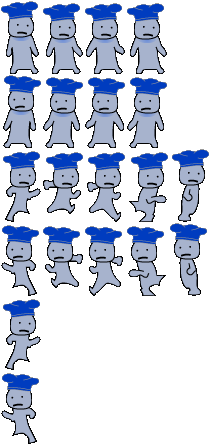
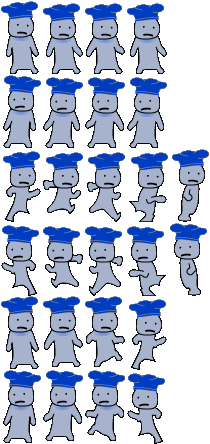
added more jump frames

Changed region(s): [[0.0, 0.6441, 0.8, 1.0]]

diff --git a/src/engine/display/AnimatedSprite.ts b/src/engine/display/AnimatedSprite.ts
@@ -100,7 +100,7 @@ export abstract class AnimatedSpriteBase extends Sprite {
             this._isReversed = !this._isReversed;
             break;
           case 'stayInState':
-            this._currentState = this.getCurrentConfig().endBehavior.arg;
+            this._currentState = this.getCurrentConfig().numStates-1;
             this._isStuck = true;
           default:
             console.log("unrecognized animation end behavior: "

diff --git a/src/cakewalk/MainGame.ts b/src/cakewalk/MainGame.ts
@@ -28,7 +28,7 @@ import { SwapAnimator } from './SwapAnimator';
 
 export class MainGame extends Game {
 
-  public static get IsDebug() : boolean { return true; }
+  public static get IsDebug() : boolean { return false; }
 
   private rootEnv : DisplayObjectContainer;
   // cameras that contain the two stages and players
